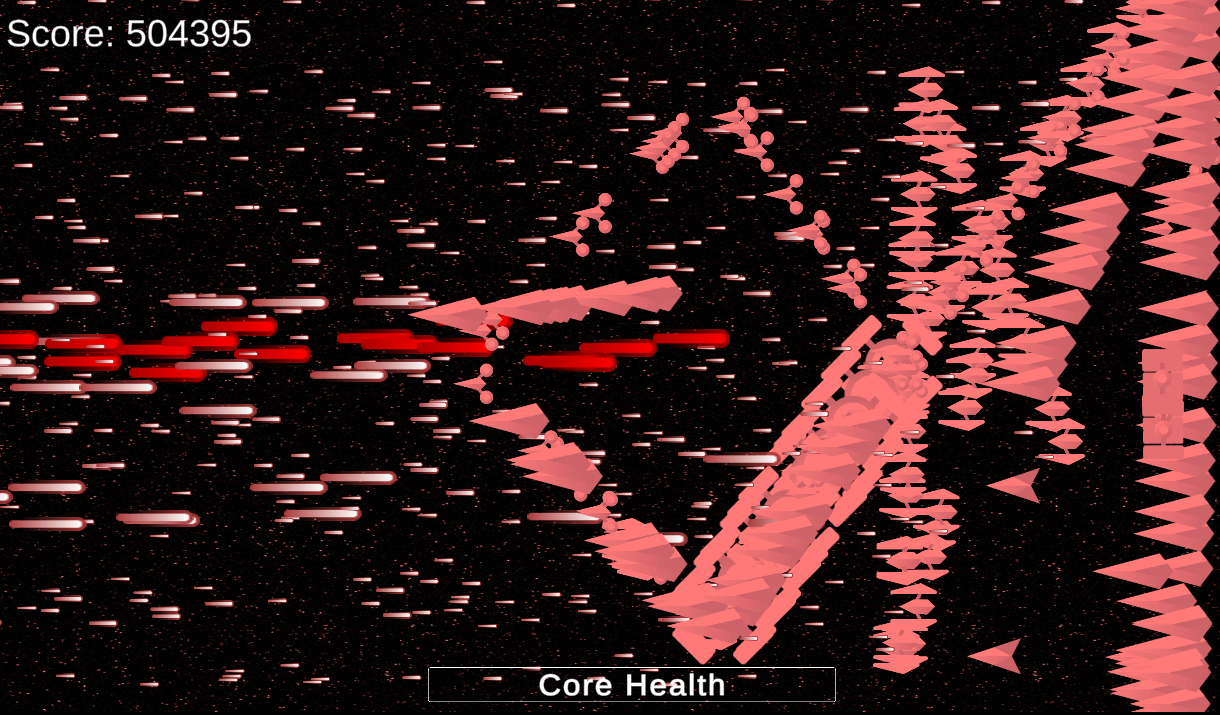
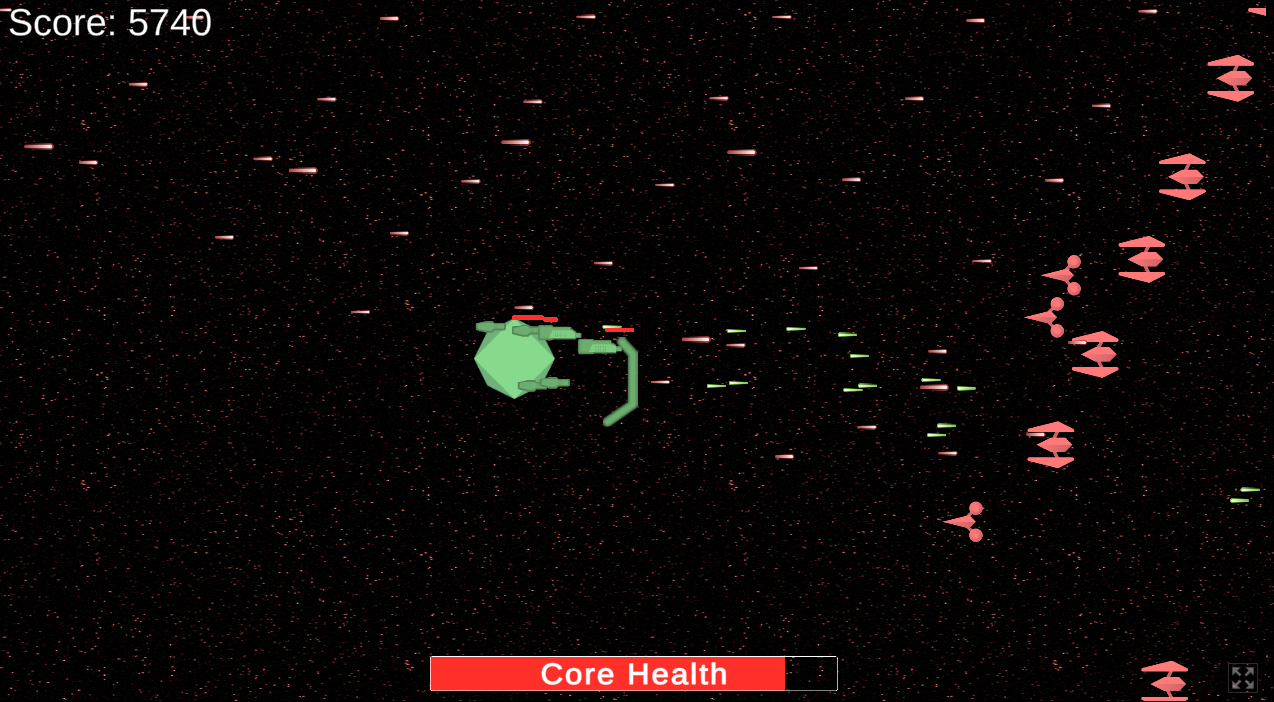
Add Troublesome Tanks project and more images

diff --git a/src/content/projects/troublesome-tanks.md b/src/content/projects/troublesome-tanks.md
@@ -1,0 +1,63 @@
+---
+title: Troublesome Tanks
+description: "Top-down tank shooter, where each team uses custom Arduino controllers to control and power their tank."
+skills: [C#, Agile, MonoGame]
+tags: [Arduino, Client Project, 2D, Shooter]
+category: game
+role: Project Manager & Scrum Master (team of 4)
+date: "2026-05"
+images: ["/assets/projects/tt1.png", "/assets/projects/tt2.png", "/assets/projects/tt3.png", "/assets/projects/tt4.jpg", "/assets/projects/tt5.png", "/assets/projects/tt6.jpeg"]
+video: ""
+links:
+  github: https://github.com/DavidParkerDr/TroublesomeTanks_3DP
+featured: true
+---
+
+# Project Context
+
+This project was undertaken by me and three fellow University of Hull students as part of a two-semester module called CDP (Commercial Development Practice). David Parker, the client for this project, is a University of Hull professor and lecturer. The game was originally developed by him and his team. It has since gone through numerous iterations, including a further improvement by another CDP team a year prior.
+
+Troublesome Tanks is a top-down tank shooter where up to four teams of three compete against each other and try to be the last tank standing. Each team has to manage the power of their tank by connecting and disconnecting components via the custom Arduino interface. The application has been developed in C# and MonoGame, which interfaces with Arduino controllers using C/C++. The repository is publicly available, and includes 3D prints for the custom controllers.
+
+The game is a tool for the university to showcase its Computer Science department during open days and outreach events. It is also used as a team building activity for students. The game suffered from critical stability and usability issues that impacted player experience and the unversity's image.
+
+The aim was to transition the software from a prototype state to a production-ready game. I acted as both the project manager and scrum master to successfuly deliver the three core objectives we outlined at the start.
+
+# Objectives
+
+We have successfully completed the project lifecycle, delivering a stabilized, highly refactored, and rigorously tested application. We held a successful public playtesting tournament with 30 attendees, confirming that the core game loop is stable and enjoyable.
+
+## Objective 1: Remediation of Technical Debt & Critical Bugs
+
+We successfully stabilized the core game by addressing major technical debt and resolving critical bugs:
+
+- **Hardware Latency**: We successfully eliminated the 8-second delay when connecting a specific controller early in the project.
+- **Input Reliability**: We fixed the major issues with input failing to register, greatly improving the user experience. Some smaller input issues were spotted during the playtest; these were documented as tracked issues for future teams with reproduction steps.
+- **Clipping**: We resolved clipping issues by overhauling the collision system and performing additional checks for tanks being inside walls.
+- **Soft-lock**: We ensured destroyed tanks no longer block pathways or prevent progression by making tank debris completely destroyable, as per the client's suggestion.
+- **UI Scalability**: The user interface and in-game elements (such as Pickups and RectWalls) were updated to scale correctly across different resolutions, and resolution-scaling bugs were caught and fixed during regression testing.
+
+## Objective 2: Gameplay Balance & Feedback Enhancements
+
+We worked closely with the client to implement features that vastly improved the pacing, clarity, and precision of the game:
+
+- **Visual Clarity**: We improved track particle clarity by adding black outlines to the sprites to ensure visibility against any avatar colour.
+- **Collision Precision**: We completely overhauled the collision detection system, moving from legacy point-based checks to a custom 2D collision engine (using SAT) that accurately calculates intersections for Circles, AABBs, and OBBs, ensuring bullets and tanks perfectly match their visual sizes. This precision was verified using a newly developed internal debugging tool that visually renders the collision boundaries.
+- **Pacing (Sudden Death)**: We successfully implemented the "Sudden Death" shrinking play zone (death ring) to force engagements and prevent late-game stalemates.
+- **Pacing (Timer)**: We added a timer to limit the maximum time a game is allowed to run, resulting in a win for the player with the highest remaining health, or a draw if tied.
+
+## Objective 3: Maintainability & Quality
+
+We transformed the legacy codebase into a professional, maintainable environment for future teams:
+
+- **Standardisation**: We authored and enforced Coding-Guidelines.md, retroactively updating inconsistent variable names and adding XML <summary> tags to public methods and classes.
+- **CI/CD Pipeline**: We established a Continuous Integration pipeline using GitHub Actions that automatically builds the project and runs our newly created TankontrollerTests suite on every push and pull request.
+- **Peer Reviews**: We successfully transitioned the team to a Pull Request workflow, enforcing peer code reviews before merging into the main branch to ensure code quality and readability.
+- **Refactoring Strategy**: We applied the 'Boy Scout Rule', safely deleting redundant classes (e.g., in the Pickup hierarchy) and abstracting tightly coupled logic, successfully reducing technical debt in the codebase.
+- **Continuous Improvements**: We consistently held Sprint Retrospectives to evaluate our workflows, which directly led to improvements in our Agile practices, role accountability, and communication.
+
+## Stretch Objectives and Handoff
+
+- **Map Editor Tools**: We invested significant effort into the map editor stretch objective, creating a completely new tool from scratch to streamline the map creation process.
+- **Bullet & Pick-up Menu**: A new menu was added to the game, allowing the players to select which power-ups they would like to spawn in the game, and at what frequency.
+- **Handoff**: We compiled an extensive, prioritized backlog of GitHub issues and structured Handover Documentation to ensure the next team can seamlessly pick up where we left off.

diff --git a/src/content/projects/modularend.md b/src/content/projects/modularend.md
@@ -44,7 +44,7 @@ Cross-peer collisions use a **collision arbitration protocol**: the peer whose e
 
 ## Rigid Body Physics
 
-Full rigid body simulation: **semi-implicit Euler** integration (energy-conservative for oscillatory systems), analytically-computed inertia tensors rotated per-frame via `R · I⁻¹_local · Rᵀ`, Coulomb friction clamped to the friction cone, and impulse-based collision response with angular effects (`ωA += IA⁻¹ (rA × jn)`).
+Full rigid body simulation: **semi-implicit Euler** integration (energy-conservative for oscillatory systems), analytically-computed inertia tensors rotated per-frame via `R · I⁻¹_local · Rᵀ`, Coulomb friction clamped to the friction cone, and impulse-based collision response with angular effects (`ωA += IA⁻¹ (rA × jn)`). The simulation can handle 750+ spheres at 60fps on a low-budget PC.
 
 A **collision dispatch table** maps ordered type pairs to function pointers for O(1) lookup, covering 14 collision pair types including 15-axis SAT for Cuboid–Cuboid. Container objects invert the collision normal to constrain bodies to their interior. Animated objects use backward finite-difference velocity so moving surfaces are handled correctly in the impulse solver.
 
@@ -57,4 +57,4 @@ Two acceleration structures implement a common `ISpatialPartition` interface, sw
 - **Uniform Grid** — O(N) build, O(K) query by hashing boid positions into cells of side = query radius
 - **Octree** — O(N log N) build, pool-allocated nodes to avoid heap fragmentation
 
-Live performance metrics — build/query time, memory, result count — are captured via `high_resolution_clock` and displayed in ImGui for direct comparison between structures.
+Live performance metrics — build/query time, memory, result count — are captured via `high_resolution_clock` and displayed in ImGui for direct comparison between structures. The simulation can handle 2500+ boids at 60fps on a low-budget PC.

diff --git a/src/content/projects/greypixelgrabbing.md b/src/content/projects/greypixelgrabbing.md
@@ -6,11 +6,11 @@ tags: [Game Jam, 2D, Action, Platformer]
 category: game
 role: Programmer (team of 4)
 date: "2025-11"
-images: ["/assets/projects/gpg1.png"]
+images: ["/assets/projects/gpg1.png", "/assets/projects/gpg2.png", "/assets/projects/gpg3.png", "/assets/projects/gpg4.png"]
 video: ""
 links:
   itch: https://graymakesgame.itch.io/greypixelgrabbing
-featured: false
+featured: true
 ---
 
 **Three Thing Game** (November 2025) Entry

diff --git a/src/content/projects/modular-mothership.md b/src/content/projects/modular-mothership.md
@@ -7,11 +7,11 @@ category: game
 playInBrowser: true
 role: Solo
 date: "2021-06"
-images: ["/assets/projects/mm1.png", "/assets/projects/mm2.png"]
+images: ["/assets/projects/mm1.png", "/assets/projects/mm2.png", "/assets/projects/mm3.png", "/assets/projects/mm4.png"]
 video: ""
 links:
   itch: https://seminix.itch.io/modular-mothership
-featured: false
+featured: true
 ---
 
 **GMTK Game Jam 2021** Entry

diff --git a/src/content/projects/cleanse-me-to-freedom.md b/src/content/projects/cleanse-me-to-freedom.md
@@ -6,7 +6,7 @@ tags: [Game Jam, 3D, Shooter, Twin-Stick]
 category: game
 role: Programmer (team of 2)
 date: "2026-03"
-images: ["/assets/projects/cmtf1.png"]
+images: ["/assets/projects/cmtf1.png", "/assets/projects/cmtf2.png", "/assets/projects/cmtf3.png"]
 video: ""
 links:
   itch: https://usagidvv.itch.io/cleansemetofreedom
